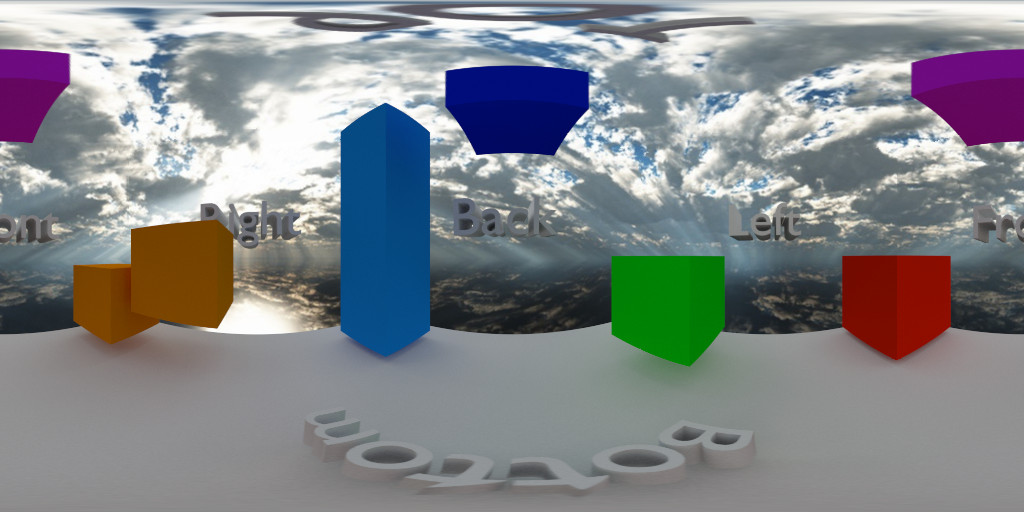
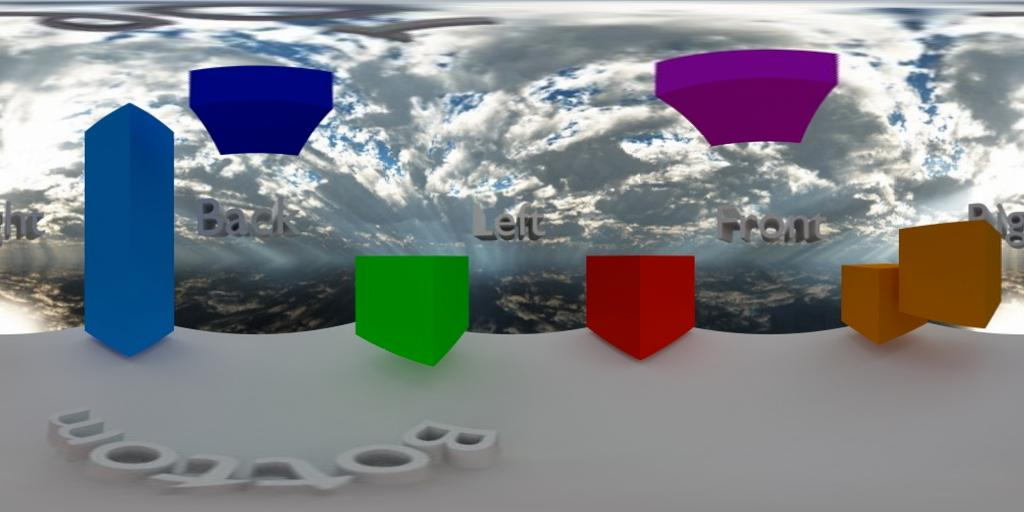
a

diff --git a/lib/collider.js b/lib/collider.js
@@ -380,12 +380,15 @@ var Collider = (function(){
 		};
 		var ret = Cone;
 		inherits(ret,Collision);
+		var m_sqrt5 = -1/Math.sqrt(5);
 		ret.prototype.calcSupport=function(ans,v){
 			Mat43.dotMat33Vec3(ans,this.inv_matrix,v);
 			Vec3.norm(ans);
-			if(ans[2]<-(1/Math.sqrt(5))){
+			if(ans[2]<m_sqrt5){
+				//頂点
 				Vec3.set(ans,0,0,1);
 			}else{
+				//底面
 				ans[2]=0;
 				Vec3.nrm(ans,ans);
 				ans[2]=1;
@@ -405,83 +408,84 @@ var Collider = (function(){
 			Mat43.dotVec3(d,this.inv_matrix,p1);
 			Vec3.sub(d,d,p);
 
-			//コーン縦の向き
-			var n = d[2];  //傾き
 			var pn = p[2]; //距離
-			if(n===0){
+			if(d[2]===0){
+				//レイが水平な場合
 				if(pn*pn>1){
-					Vec3.poolFree(2);
-					return 99999;
-				}
-
-				//円柱の水平方向
-				var A = d[0]*d[0] + d[1]*d[1];
-				var B = p[0]*d[0] + p[1]*d[1];
-				var C = p[0]*p[0] + p[1]*p[1] - (1-p)*(1-p)*0.25;
-				if(A===0){
-					if(p[0]*p[0]+p[1]*p[1]>1){
-						Vec3.poolFree(2);
-						return 9999;
-					}
+					//高さが+-1より大きい場合は接触しない
+					min=99999;
 				}else{
-					var l = B*B-A*C;
-					if(l<0){
-						Vec3.poolFree(2);
-						return 99999;
+					var r=(1-p)*0.5; //レイのある高さの半径
+
+					var A = d[0]*d[0] + d[1]*d[1];
+					var B = p[0]*d[0] + p[1]*d[1];
+					var C = p[0]*p[0] + p[1]*p[1] - r*r;
+					if(A===0){
+						//レイが0ベクトルの場合
+						if(p[0]*p[0]+p[1]*p[1]>r*r){
+							//半径より外なら接触していない
+							min = 999999;
+						}
+					}else{
+						var l = B*B-A*C;
+						if(l<0){
+							//判別式負の場合接触しない
+							min=999999;
+						}else{
+							min=Math.max(min,(-B - Math.sqrt(l))/A);
+						}
 					}
-					min=Math.max(min,(-B - Math.sqrt(l))/A);
-					max=Math.min(max,(-B + Math.sqrt(l))/A);
-				}
-				if(min>max){
-					Vec3.poolFree(2);
-					return 99999;
-				}
-				Vec3.poolFree(2);
-				return min;
-			}
-			n=1/n;
-			if(n>0){
-				max = Math.min(max,(1-pn)*n);
-				min = Math.max(min,(-1-pn)*n);
-			}else{
-				max = Math.min(max,(-1-pn)*n);
-				min = Math.max(min,(1-pn)*n);
-			}
-
-			//コーンの水平方向
-			p[2]-=1;
-			var A = 4/5*(d[0]*d[0] + d[1]*d[1]+d[2]*d[2]) - d[2]*d[2];
-			var B = 4/5*(p[0]*d[0] + p[1]*d[1] + p[2]*d[2]) - p[2]*d[2];
-			var C = 4/5*(p[0]*p[0] + p[1]*p[1] + p[2]*p[2]) - p[2]*p[2];
-
-			var l = B*B-A*C;
-			if(l<0){
-				Vec3.poolFree(2);
-				return 99999;
-			}
-			if(A>0){
-				min=Math.max(min,(-B - Math.sqrt(l))/A);
-				max=Math.min(max,(-B + Math.sqrt(l))/A);
-			}else if(A<0){
-				if(d[2]>0){
-					//max = Math.min(max,(-B-Math.sqrt(l))/A);
-					max = Math.min(max,(-B+Math.sqrt(l))/A);
-				}else{
-					//min= Math.max(min,(-B+Math.sqrt(l))/A);
-					min= Math.max(min,(-B-Math.sqrt(l))/A);
 				}
 			}else{
-				if(B<0){
-					min=Math.max(min,-C/(2*B));
+
+				//コーンの側面
+				p[2]-=1;
+				var A = (4/5)*(d[0]*d[0] + d[1]*d[1]+d[2]*d[2]) - d[2]*d[2];
+				var B = (4/5)*(p[0]*d[0] + p[1]*d[1] + p[2]*d[2]) - p[2]*d[2];
+				var C = (4/5)*(p[0]*p[0] + p[1]*p[1] + p[2]*p[2]) - p[2]*p[2];
+
+				var l = B*B-A*C;
+				if(l<0){
+					//判別式が負の場合接触しない
+					min=99999;
 				}else{
-					max=Math.min(max,-C/(2*B));
+
+					if(A>0){
+						min=(-B - Math.sqrt(l))/A;
+						max=(-B + Math.sqrt(l))/A;
+					}else if(A<0){
+						if(d[2]>0){
+							//max = Math.min(max,(-B-Math.sqrt(l))/A);
+							max = (-B+Math.sqrt(l))/A;
+						}else{
+							//min= Math.max(min,(-B+Math.sqrt(l))/A);
+							min= (-B-Math.sqrt(l))/A;
+						}
+					}else{
+						if(B<0){
+							min=-C/(2*B);
+						}else{
+							max=-C/(2*B);
+						}
+					}
+
+					//高さ接触範囲 +-1
+					var invz=1/d[2];
+					if(invz>0){
+						max = Math.min(max,(1-pn)*invz);
+						min = Math.max(min,(-1-pn)*invz);
+					}else{
+						max = Math.min(max,(-1-pn)*invz);
+						min = Math.max(min,(1-pn)*invz);
+					}
 				}
 			}
 
 			if(min>max){
-				Vec3.poolFree(2);
-				return 99999;
+				//範囲逆転の場合接触していない
+				min=99999;
 			}
+
 			Vec3.poolFree(2);
 			return min;
 		}

diff --git a/test3d/testact.js b/test3d/testact.js
@@ -1085,6 +1085,10 @@ var Testact=(function(){
 		gl.clear(gl.DEPTH_BUFFER_BIT);
 		drawSub(0,0,WIDTH,HEIGHT);
 		
+		var env = ono3d.environments[0];
+		//環境マップ
+
+		//Ono3d.drawCopy(env.envTexture,0,0,1,1);
 
 		//描画結果をバッファにコピー
 		gl.bindFramebuffer(gl.FRAMEBUFFER, null);
@@ -1104,14 +1108,13 @@ var Testact=(function(){
 			Ono3d.copyImage(bufTexture,0,0,0,0,WIDTH,HEIGHT);
 		}
 
-		ono3d.setViewport(0,0,WIDTH,HEIGHT);
-		gl.bindFramebuffer(gl.FRAMEBUFFER,null );
 
 		//トーンマッピング
 		ono3d.toneMapping(bufTexture,WIDTH/1024,HEIGHT/1024);
 		
 
-		gl.enable(gl.BLEND);
+
+
 		ono3d.clear();
 
 		for(i=0;i<objMan.objs.length;i++){

diff --git a/lib/rastgl.js b/lib/rastgl.js
@@ -218,6 +218,20 @@ ret.init=function(_gl){
 		float atan2(in float y, in float x) { \n \
 			return x == 0.0 ? sign(y)*PI/2.0 : atan(y, x); \n \
 		} \n \
+		const highp float _PI =1.0/3.14159265359; \n \
+		vec2 angle2uv(vec3 angle) { \n \
+			return vec2(atan2(angle.z,angle.x)*_PI*0.5 + 0.5  \n \
+				,-atan2(angle.y,length(angle.xz))*_PI + 0.5); \n \
+		} \n \
+		vec3 uv2angle(vec2 uv) { \n \
+			vec3 va; \n \
+			va.y = sin((0.5-uv.y)*PI); \n \
+			float l = sqrt(1.0-va.y*va.y); \n \
+			float r = (-uv.x*2.0-0.5)* PI; \n \
+			va.x = sin(r)*l; \n \
+			va.z = cos(r)*l; \n \
+			return va; \n \
+		} \n \
 	";
 
 	ret.textureRGBE=" \n \

diff --git a/lib/ono3d.js b/lib/ono3d.js
@@ -1292,7 +1292,7 @@ ret.calcST = function(s,t,p0,p1,p2,u0,v0,u1,v1,u2,v2){
 		gl.bindBuffer(gl.ARRAY_BUFFER, Rastgl.fullposbuffer);
 		gl.vertexAttribPointer(shader.atts["aPos"], 2,gl.FLOAT, false,0 , 0);
 		var unis = shader.unis;
-		var max =64;
+		var max =1;
 		if(rough==0.0){
 			max=1;
 		}
@@ -1519,7 +1519,6 @@ ret.calcST = function(s,t,p0,p1,p2,u0,v0,u1,v1,u2,v2){
 
 			this.setViewport(0,0,width,height);
 			this.rough(tex2,rough,tex,0,0,1,0.5);
-
 
 			this.gauss(width,height,10,tex2,0,0,1,1,width,height); 
 

diff --git a/tools/convert.html b/tools/convert.html
@@ -234,13 +234,13 @@ var Polar = (function()	{
 	var ret={};
 	ret.name="Polar";
 	ret.angle2uv=function(uv,angle){
-		uv[0]=atan2(angle[0],-angle[2])*_PI05+0.5;
+		uv[0]=atan2(angle[2],angle[0])*_PI05+0.5;
 		uv[1]=-asin(angle[1])*_PI+0.5;
 	}
 	ret.uv2angle=function(angle,uv){
 		angle[1]=-Math.sin((uv[1]-0.5)*Math.PI)
 		var l=sqrt(1-angle[1]*angle[1])
-		var r=-uv[0]*Math.PI*2
+		var r=-uv[0]*Math.PI*2 - Math.PI*0.5;
 		angle[0]=Math.sin(r)*l
 		angle[2]=Math.cos(r)*l
 	}
